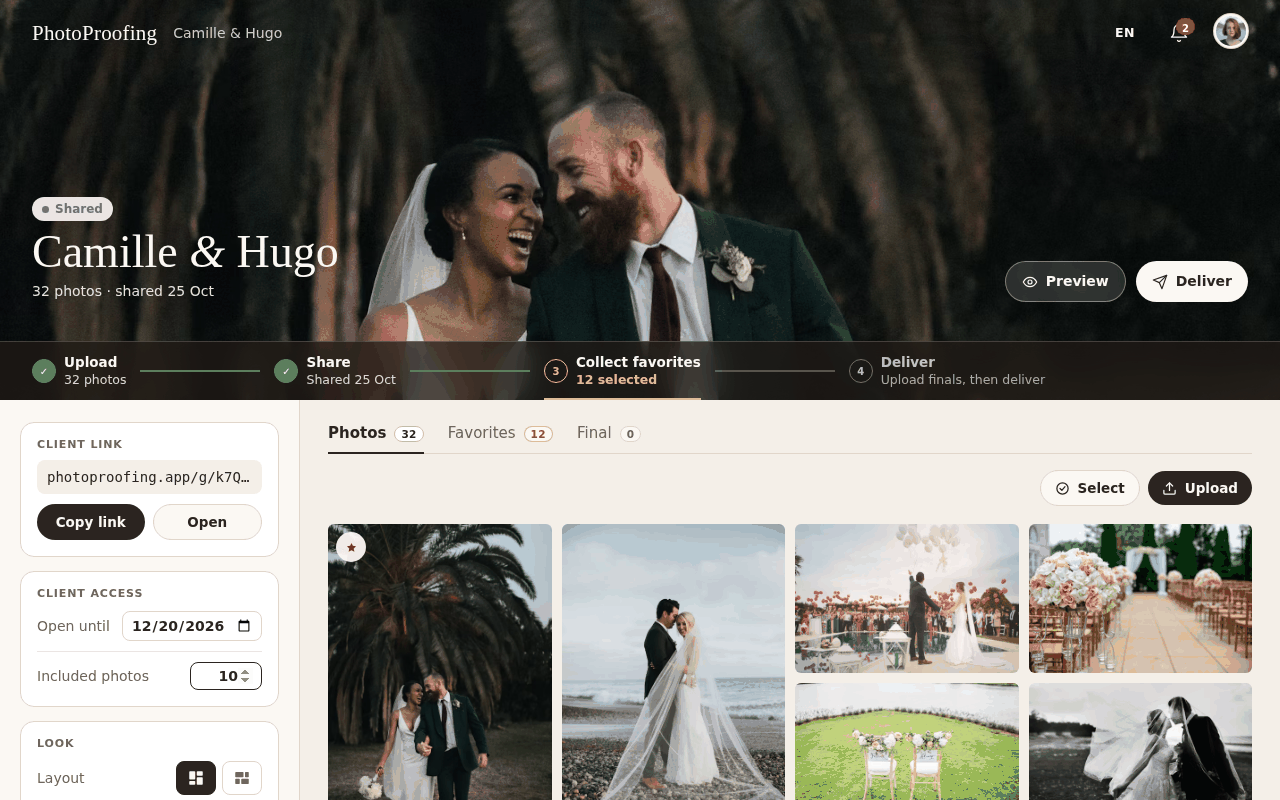
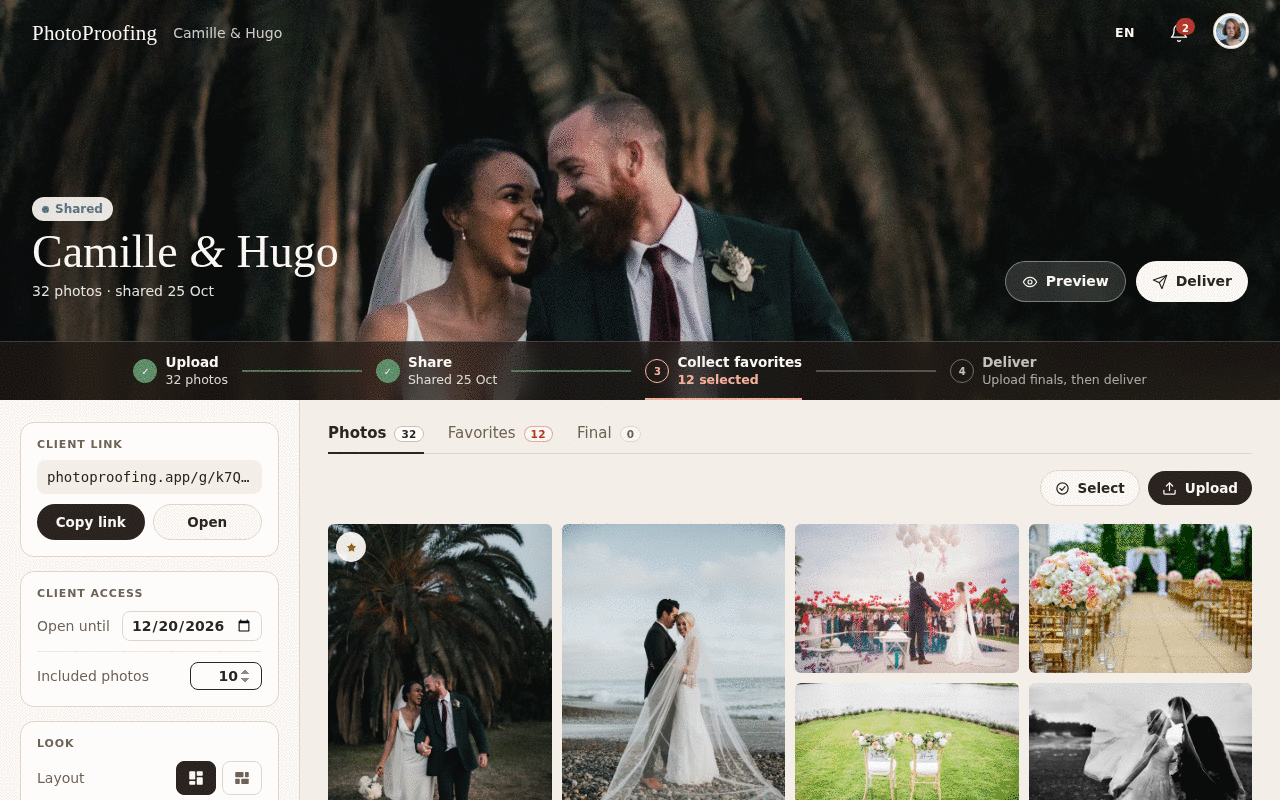
docs(ui): polish gallery select mode, centred steps and empty favorites (#225)
* docs(ui): polish gallery select mode, centred steps and empty favorites

* docs(ui): disable Favorites and Final tabs on a draft gallery

---------

diff --git a/docs/designs/ui/prototype.html b/docs/designs/ui/prototype.html
@@ -199,7 +199,7 @@ mark{background:rgba(255,213,150,.55);color:inherit;border-radius:2px;padding:0 
 .ccov .deco .edge::before{margin:0 auto 8px}
 .ccov .deco .ini{right:50%;transform:translate(50%,-62%)}
 .cl .ccv .deco .edge{top:62px;text-align:left}
-.strip{position:absolute!important;left:0;right:0;bottom:0;display:flex;align-items:center;gap:14px;padding:0 32px;background:rgba(32,26,22,.74);-webkit-backdrop-filter:blur(14px) saturate(1.2);backdrop-filter:blur(14px) saturate(1.2);border-top:1px solid rgba(251,248,243,.18);color:rgba(251,248,243,.85)}
+.strip{position:absolute!important;left:0;right:0;bottom:0;display:flex;align-items:center;justify-content:center;gap:14px;padding:0 32px;background:rgba(32,26,22,.74);-webkit-backdrop-filter:blur(14px) saturate(1.2);backdrop-filter:blur(14px) saturate(1.2);border-top:1px solid rgba(251,248,243,.18);color:rgba(251,248,243,.85)}
 .strip .st{display:flex;gap:8px;align-items:center;padding:12px 0;white-space:nowrap;font-size:12.5px;position:relative}
 .strip .st>div{display:flex;flex-direction:column;line-height:1.3}
 .strip .st strong{color:#fbf8f3;font-weight:600;font-size:13.5px}
@@ -258,6 +258,8 @@ label.kv>span{white-space:nowrap}
 .tabs{display:flex;gap:24px;border-bottom:1px solid var(--line);flex:1}
 .tabs button{padding:6px 0 10px;font:500 15px/1.2 system-ui,sans-serif;color:var(--muted);border-bottom:2px solid transparent;margin-bottom:-1px;display:flex;align-items:baseline;gap:8px;transition:color .15s,border-color .15s}
 .tabs button:hover{color:var(--ink)}
+.tabs button:disabled{opacity:.45;cursor:not-allowed}
+.tabs button:disabled:hover{color:var(--muted)}
 .tabs button.on{color:var(--ink);border-color:var(--ink);font-weight:600}
 .tabs em{font:700 10.5px system-ui;letter-spacing:.04em;font-style:normal;color:var(--muted);border:1px solid var(--line);border-radius:999px;padding:1px 6px;background:var(--panel)}
 .tabs button.on em{color:var(--ink);border-color:#cdbda9;background:#fff}
@@ -265,12 +267,10 @@ label.kv>span{white-space:nowrap}
 .tabs .lk{display:inline-flex;align-self:center;color:var(--muted);margin-left:-3px}
 .ptools{display:flex;align-items:center;justify-content:flex-end;gap:8px;margin:-2px 0 14px;min-height:44px}
 .ptools .fcount{flex:1}
-.selbar{flex:1;display:flex;align-items:center;gap:12px;background:var(--ink);color:#fbf8f3;border-radius:999px;padding:6px 6px 6px 8px;animation:rise .2s ease-out}
-.selbar strong{font:600 14px system-ui}
-.selbar .btn.gh{background:transparent;border-color:rgba(251,248,243,.3);color:#fbf8f3}
-.selbar .btn.lt{background:#fbf8f3;color:var(--ink)}
-.selbar .ic{width:32px;height:32px;border-radius:50%;display:grid;place-items:center;color:#fbf8f3}
-.selbar .ic:hover{background:rgba(251,248,243,.12)}
+.selinfo{flex:1;display:flex;align-items:center;gap:10px;animation:rise .2s ease-out}
+.selinfo strong{font:600 14px system-ui}
+.selinfo .ic{width:32px;height:32px;border-radius:50%;display:grid;place-items:center;color:var(--ink)}
+.selinfo .ic:hover{background:rgba(0,0,0,.06)}
 .mas{columns:4 180px;column-gap:10px}
 .mas.rows{columns:auto;display:grid;grid-template-columns:repeat(auto-fill,minmax(180px,1fr));gap:10px}
 .mas.rows .tile{margin:0;aspect-ratio:3/2}
@@ -317,9 +317,6 @@ button.hero:not(.on):hover{color:#f2c063}
 .drop h3{font:400 28px/1.2 Georgia,serif;color:var(--ink);margin:0}
 .drop p{margin:0;font-size:14px}
 .drop.lockd{border-style:solid;background:var(--panel)}
-.fempty{border:1px solid var(--line);border-radius:14px;background:var(--panel);min-height:340px;display:flex;flex-direction:column;align-items:center;justify-content:center;gap:10px;text-align:center;color:var(--muted);padding:40px}
-.fempty h3{font:400 26px/1.2 Georgia,serif;color:var(--ink);margin:0}
-.fempty .hrt{width:56px;height:56px;border-radius:50%;display:grid;place-items:center;background:var(--page);color:var(--accent);margin-bottom:6px}
 .dlb{position:relative;overflow:hidden}
 .dlb[disabled]{opacity:1;background:#4a3f38}
 .dlb .bar2{position:absolute;left:0;right:0;bottom:0;height:3px;background:rgba(251,248,243,.2);overflow:hidden}
@@ -717,8 +714,6 @@ button.hero:not(.on):hover{color:#f2c063}
   .tabs{gap:16px}.tabs button{font-size:14.5px;gap:6px;padding-bottom:9px}
   .ptools{margin-bottom:10px}
   .ptools .btn{padding:7px 12px}
-  .selbar{gap:6px}
-  .selbar .btn{padding:6px 10px;font-size:12.5px}
   .mas{columns:2;column-gap:8px}
   .mas .tile{margin-bottom:8px}
   .mas.rows{grid-template-columns:1fr 1fr;gap:8px}
@@ -854,7 +849,7 @@ const deskI=sv('<rect x="3" y="4" width="18" height="12" rx="2"/><path d="M8 20h
 const phI=sv('<rect x="7" y="3" width="10" height="18" rx="2"/><path d="M11 18h2"/>',2,15);
 const hF='<svg width="17" height="17" viewBox="0 0 24 24" fill="currentColor"><path d="M12 21s-8-5.2-8-11a4.5 4.5 0 0 1 8-2.8A4.5 4.5 0 0 1 20 10c0 5.8-8 11-8 11z"/></svg>';
 const hO=hF.replace('fill="currentColor"','fill="none" stroke="currentColor" stroke-width="2"');
-const hrt=sv('<path d="M12 20s-7-4.5-7-10a4 4 0 0 1 7-2.6A4 4 0 0 1 19 10c0 5.5-7 10-7 10z"/>',1.6,26);
+const hrt=sv('<path d="M12 20s-7-4.5-7-10a4 4 0 0 1 7-2.6A4 4 0 0 1 19 10c0 5.5-7 10-7 10z"/>',1.5,30);
 const dA=sv('<path d="M12 3v12M7 10l5 5 5-5M4 20h16"/>',2.2,14);
 const xI=sv('<path d="M18 6 6 18M6 6l12 12"/>',2.2),lI=sv('<path d="m15 18-6-6 6-6"/>',2.2),rI=sv('<path d="m9 18 6-6-6-6"/>',2.2);
 const xS=sv('<path d="M18 6 6 18M6 6l12 12"/>',2.2,14),xM=sv('<path d="M18 6 6 18M6 6l12 12"/>',2.2,16);
@@ -1027,6 +1022,7 @@ const T={
  'tab.photos':{en:'Photos',fr:'Photos'},
  'tab.favorites':{en:'Favorites',fr:'Favoris'},
  'tab.final':{en:'Final',fr:'Finales'},
+ 'tab.afterShare':{en:'Available once the gallery is shared',fr:'Disponible une fois la galerie partagée'},
  'tab.locked':{en:'Locked after delivery',fr:'Verrouillés après la livraison'},
  'drop.final':{en:'Drop the finished photos here',fr:'Déposez les photos finales ici'},
  'drop.photos':{en:'Drop the shoot here',fr:'Déposez la séance ici'},
@@ -1333,7 +1329,7 @@ function tile(p,{g,tab,sel}){
 }
 function tabs(g,tab){
   const del=g.status==='delivered',n=g.photos.length,f=favCount(g),fi=g.finals.length;
-  const b=(k,l,em,lk)=>`<button class="${tab===k?'on':''}" data-a="tab" data-v="${k}">${l}${lk?`<span class="lk" title="${lk}">${lock}</span>`:''}<em${k==='favorites'&&over(g)?' class="x"':''}>${em}</em></button>`;
+  const b=(k,l,em,lk)=>{const off=g.status==='draft'&&k!=='photos';return `<button class="${tab===k?'on':''}" data-a="tab" data-v="${k}"${off?` disabled title="${t('tab.afterShare')}"`:''}>${l}${lk?`<span class="lk" title="${lk}">${lock}</span>`:''}<em${k==='favorites'&&over(g)?' class="x"':''}>${em}</em></button>`};
   return `<div class="tbar" data-r="tabs"><div class="tabs">${b('photos',t('tab.photos'),n)}${b('favorites',t('tab.favorites'),f,del&&t('tab.locked'))}${b('final',t('tab.final'),fi)}</div></div>`;
 }
 const tabList=(g,tab)=>tab==='final'?g.finals:tab==='favorites'?g.photos.filter(p=>p.fav&&p.st==='ok'):g.photos;
@@ -1341,14 +1337,14 @@ function mainArea(g,tab){
   const sel=S.ui.sel&&S.ui.selTab===tab?S.ui.sel:null,ctx={g,tab,sel};
   const lc=g.layout==='rows'?' rows':'',fav=tab==='favorites';
   const list=tabList(g,tab);
-  if(!list.length)return fav?`<div data-r="tools"></div><div class="fempty" data-r="grid"><div class="hrt">${hrt}</div><h3>${t('noFav')}</h3></div>`
+  if(!list.length)return fav?`<div data-r="tools"></div><div class="drop" data-r="grid">${hrt}<h3>${t('noFav')}</h3></div>`
     :`<div data-r="tools"></div><div class="drop" data-r="grid">${upl}<h3>${t(tab==='final'?'drop.final':'drop.photos')}</h3><button class="btn pri" data-a="upload">${upS} ${t('upload')}</button></div>`;
   const selBtn=`<button class="btn gh sm" data-a="select">${selI} ${t('select')}</button>`;
   const regen=tab==='photos'&&g.wm.on&&regenOn(g)?`<span class="regen" role="status"><span class="spin"></span>${t('regen')}</span>`:'';
   let tools;
-  if(sel)tools=`<div class="selbar"><button class="ic" data-a="selx" aria-label="${t('sel.cancel')}">${xM}</button><strong>${tn('selected',sel.size)}</strong><span class="sp"></span><button class="btn gh sm" data-a="selall">${t('selectAll')}</button>${fav
-      ?`<button class="btn lt sm${sel.size?'':' dis'}" data-a="seldl">${dl} ${t('download')}</button>`
-      :`<button class="btn dz sm${sel.size?'':' dis'}" data-a="seldel">${trash} ${t('delete')}</button>`}</div>`;
+  if(sel)tools=`<span class="selinfo"><button class="ic" data-a="selx" aria-label="${t('sel.cancel')}">${xM}</button><strong>${tn('selected',sel.size)}</strong></span><button class="btn gh sm" data-a="selall">${t('selectAll')}</button>${fav
+      ?`<button class="btn pri sm${sel.size?'':' dis'}" data-a="seldl">${dl} ${t('download')}</button>`
+      :`<button class="btn dz sm${sel.size?'':' dis'}" data-a="seldel">${trash} ${t('delete')}</button>`}`;
   else if(fav){const busy=S.ui.busy[g.id];tools=`<span class="fcount"></span>${selBtn}${busy?`<button class="btn pri sm dlb" disabled>${t('sel.downloading')}<span class="bar2"><i></i></span></button>`:`<button class="btn pri sm dlb" data-a="dlfavs">${dl} ${t('download')}</button>`}`}
   else tools=`<span class="fcount">${regen}</span>${selBtn}<button class="btn pri sm" data-a="upload">${upS} ${t('upload')}</button>`;
   return `<div class="ptools" data-r="tools">${tools}</div><div class="mas${lc}${sel?' sel':''}" data-r="grid">${list.map(p=>tile(p,ctx)).join('')}</div>`;
@@ -1546,7 +1542,7 @@ function clientView(g,{preview=false,narrow=false}={}){
 /* ---------- router & render ---------- */
 function route(){
   const h=location.hash.replace(/^#\/?/,'').split('/');
-  if(h[0]==='g'&&G(h[1]))return {page:'g',gid:h[1],tab:['photos','favorites','final'].includes(h[2])?h[2]:'photos'};
+  if(h[0]==='g'&&G(h[1]))return {page:'g',gid:h[1],tab:G(h[1]).status!=='draft'&&['favorites','final'].includes(h[2])?h[2]:'photos'};
   if(h[0]==='settings')return {page:'settings'};
   if(h[0]==='c')return {page:'c',token:h[1]||''};
   return {page:'dash'};

diff --git a/docs/designs/ui/screens/gallery.md b/docs/designs/ui/screens/gallery.md
@@ -28,7 +28,7 @@ The hero photo fills a wide banner. Over it:
   ("48 photos · shared 12 Jun");
 - **Preview** (ghost) and the next main action: **Share** for a draft, **Deliver** once shared,
   nothing once delivered, **Restore** when archived;
-- the **journey steps** along the bottom: Upload → Share → Collect favorites → Deliver. Done steps
+- the **journey steps**, centred along the bottom: Upload → Share → Collect favorites → Deliver. Done steps
   show a green tick and a fact ("Shared 12 Jun", "13 selected"), the current step is highlighted,
   later ones are dim. On phones the steps collapse to four dots and the current step's label.
   Hidden when archived.
@@ -66,6 +66,8 @@ Four cards on the left; on phones an icon rail whose buttons pop the same cards 
 
 **Photos**, **Favorites** and **Final**, each with its count. The Favorites count turns bold
 accent when over the allowance. After delivery Favorites shows a padlock: the selection is locked.
+While the gallery is a draft, **Favorites** and **Final** are dimmed and disabled (tooltip "Available once the
+gallery is shared"); only Photos opens, even from a direct link.
 
 ### Photos
 
@@ -96,7 +98,7 @@ regenerated.
 
 Only the client's selection, read-only. Toolbar: **Select** and **Download** (the whole selection
 as a ZIP, with a busy state while it's prepared). Hovering a photo shows a small download button
-for that photo (always visible on touch). Empty: a heart and "No favorites yet". Opening a photo
+for that photo (always visible on touch). Empty: the same dashed drop-area look as the other empty tabs, with a heart and "No favorites yet". Opening a photo
 shows the viewer with the favorite heart.
 
 ### Final
@@ -107,8 +109,9 @@ download mark shows which photos the client has downloaded.
 
 ### Select mode
 
-**Select** turns the toolbar into a dark pill: ✕, "3 selected", **Select all**, and the action:
-**Delete** on Photos and Final, **Download** on Favorites. Tiles show a check; clicking toggles.
+**Select** keeps the toolbar where it is, with no dark bar. On the left appear ✕ and "3 selected"; on the right
+**Select** becomes **Select all**, and the main button becomes the action: **Delete** on Photos and Final,
+**Download** on Favorites. Tiles show a check; clicking toggles.
 Select all only picks the current tab.
 
 ## Dialogs
